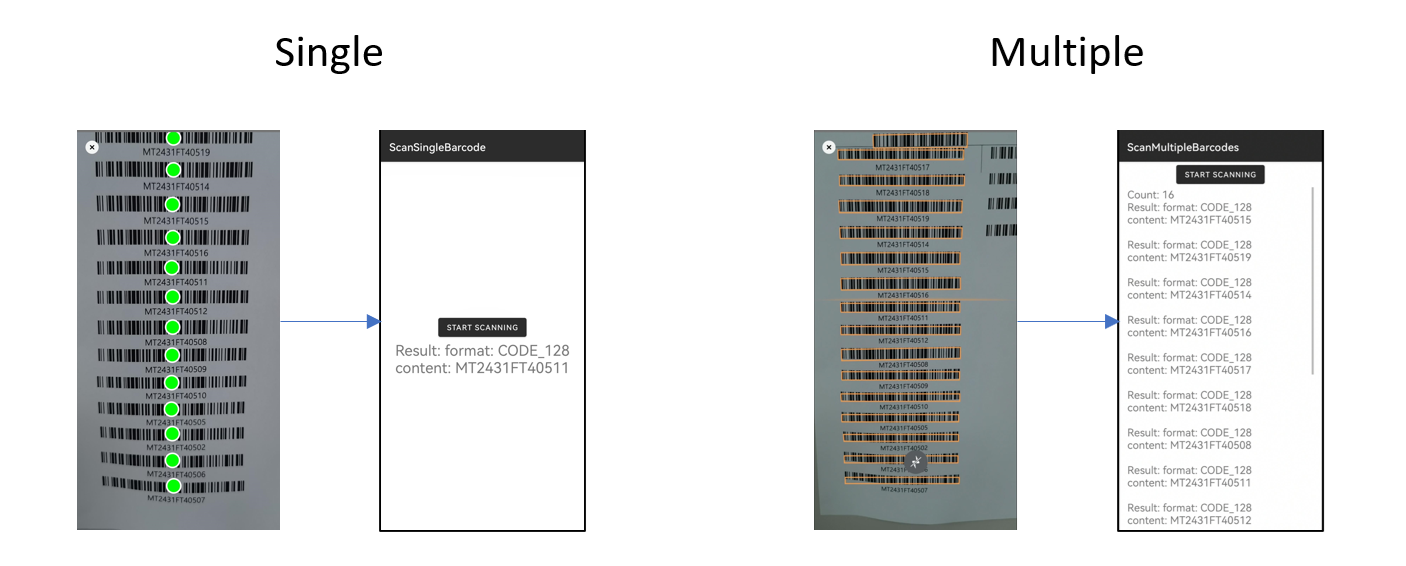
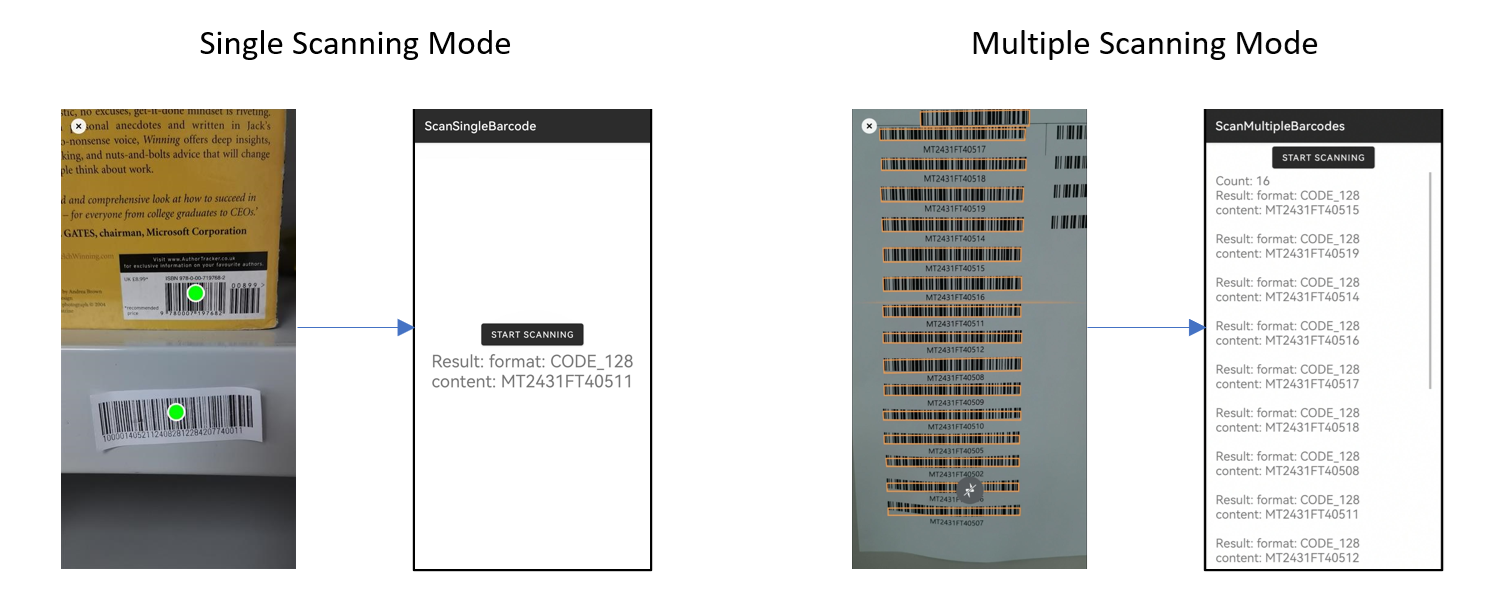
update to internal commit 1dd6d9ca

diff --git a/programming/android/index.md b/programming/android/index.md
@@ -3,7 +3,8 @@ layout: default-layout
 title: Main Page - Dynamsoft Barcode Reader for Android
 description: This is the main page of Dynamsoft Barcode Reader for Android SDK.
 keywords: android
-needAutoGenerateSidebar: false
+needAutoGenerateSidebar: true
+needGenerateH3Content: true
 breadcrumbText: Android
 permalink: /programming/android/
 ---
@@ -13,14 +14,6 @@ permalink: /programming/android/
 Dynamsoft Barcode Reader (DBR) SDK Android Edition is a barcode reading tool designed specifically for Android developers.
 
 You can either get a quick start with the [BarcodeScanner APIs](api-reference/barcode-scanner/index.md) or experience a highly customizable development with the [foundational APIs](api-reference/index.md). Furthermore, DBR provides a powerful [parameter]({{ site.dcvb_parameters}}file/index.html?lang=android) system in order to cope with various scenarios.
-
-## Develop with BarcodeScanner
-
-If you are looking for a barcode scanning library with following features, the BarcodeScanner will be your best choice:
-
-- Minimal Code: High-level APIs achieve full functionality with one line of code.
-- Ready-to-Use UI: Pre-integrated components and UI enable quick setup.
-- Common Customization: Configuration objects simplify typical algorithm and UI setups.
 
 |    | Develop with BarcodeScanner APIs | Develop with Foundational APIs |
 | -- | ------------------------------ | ------------------------------ |
@@ -32,7 +25,15 @@ If you are looking for a barcode scanning library with following features, the B
 | Camera Control | Limited | ✔ |
 | Intermediate Results | X | ✔ |
 
-BarcodeScanner supports 2 different Scanning Modes
+## Develop with BarcodeScanner APIs
+
+`BarcodeScanner` is a component with the following features:
+
+- Minimal Code: High-level APIs achieve full functionality with one line of code.
+- Ready-to-Use UI: Pre-integrated components and UI enable quick setup.
+- Common Customization: Configuration objects simplify typical algorithm and UI setups.
+
+`BarcodeScanner` supports 2 different Scanning Modes
 
 - Single Barcode Scanning Mode
   1. Scans any number of barcodes but returns only one result.
@@ -41,11 +42,9 @@ BarcodeScanner supports 2 different Scanning Modes
 - Multiple Barcodes Scanning Mode
   1. Scans multiple barcodes and returns all scanned results.
   2. Read-rate prioritized.
-  3. Interactions like editing results, manual input, etc. are not available. Please refer to the [BatchBarcodeScanner](https://www.dynamsoft.com/use-cases/batch-barcode-scanning/){:target="_blank"} for these features.
 
 <div align="center">
-    <p><img src="../assets/single-vs-multiple.png" width="70%" alt="barcode-scanner"></p>
-    <p>Single vs Multiple</p>
+    <p><img src="../assets/single-vs-multiple.png" width="100%" alt="barcode-scanner"></p>
 </div>
 
 > Note: If you are looking for a solution to scan large batches of barcodes, please refer to the [`BatchBarcodeScanner`](https://www.dynamsoft.com/use-cases/batch-barcode-scanning/){:target="_blank"}. The `BatchBarcodeScanner` has much higher ability on scanning large number of barcodes. It also provides you a highly interactable UI for result previewing, editing, saving, reusing and sharing.

diff --git a/programming/objectivec-swift/index.md b/programming/objectivec-swift/index.md
@@ -3,7 +3,7 @@ layout: default-layout
 title: Main Page - Dynamsoft Barcode Reader for iOS
 description: This is the main page of Dynamsoft Barcode Reader for iOS SDK.
 keywords: objective-c, oc, swift
-needAutoGenerateSidebar: false
+needAutoGenerateSidebar: true
 needGenerateH3Content: true
 breadcrumbText: iOS
 permalink: /programming/objectivec-swift/
@@ -15,14 +15,6 @@ Dynamsoft Barcode Reader (DBR) SDK iOS Edition is a barcode reading tool designe
 
 You can either get a quick start with the [BarcodeScanner APIs](api-reference/barcode-scanner/index.md) or experience a highly customizable development with the [foundational APIs](api-reference/index.md). Furthermore, DBR provides a powerful [parameter]({{ site.dcvb_parameters}}file/index.html?lang=objc,swift) system in order to cope with various scenarios.
 
-## Develop with BarcodeScanner
-
-If you are looking for a barcode scanning library with following features, the BarcodeScanner will be your best choice:
-
-- Minimal Code: High-level APIs achieve full functionality with one line of code.
-- Ready-to-Use UI: Pre-integrated components and UI enable quick setup.
-- Common Customization: Configuration objects simplify typical algorithm and UI setups.
-
 |    | Develop with BarcodeScanner APIs | Develop with Foundational APIs |
 | -- | ------------------------------ | ------------------------------ |
 | Code | 15+ lines | 60+ lines |
@@ -33,7 +25,15 @@ If you are looking for a barcode scanning library with following features, the B
 | Camera Control | Limited | ✔ |
 | Intermediate Results | X | ✔ |
 
-BarcodeScanner supports 2 different Scanning Modes
+## Develop with BarcodeScanner APIs
+
+`BarcodeScanner` is a component with the following features:
+
+- Minimal Code: High-level APIs achieve full functionality with one line of code.
+- Ready-to-Use UI: Pre-integrated components and UI enable quick setup.
+- Common Customization: Configuration objects simplify typical algorithm and UI setups.
+
+`BarcodeScanner` supports 2 different Scanning Modes
 
 - Single Barcode Scanning Mode
   1. Scans any number of barcodes but returns only one result.
@@ -42,11 +42,9 @@ BarcodeScanner supports 2 different Scanning Modes
 - Multiple Barcodes Scanning Mode
   1. Scans multiple barcodes and returns all scanned results.
   2. Read-rate prioritized.
-  3. Interactions like editing results, manual input, etc. are not available. Please refer to the [BatchBarcodeScanner](https://www.dynamsoft.com/use-cases/batch-barcode-scanning/){:target="_blank"} for these features.
 
 <div align="center">
-    <p><img src="../assets/single-vs-multiple.png" width="70%" alt="barcode-scanner"></p>
-    <p>Single vs Multiple</p>
+    <p><img src="../assets/single-vs-multiple.png" width="100%" alt="barcode-scanner"></p>
 </div>
 
 > Note: If you are looking for a solution to scan large batches of barcodes, please refer to the [`BatchBarcodeScanner`](https://www.dynamsoft.com/use-cases/batch-barcode-scanning/){:target="_blank"}. The `BatchBarcodeScanner` has much higher ability on scanning large number of barcodes. It also provides you a highly interactable UI for result previewing, editing, saving, reusing and sharing.
